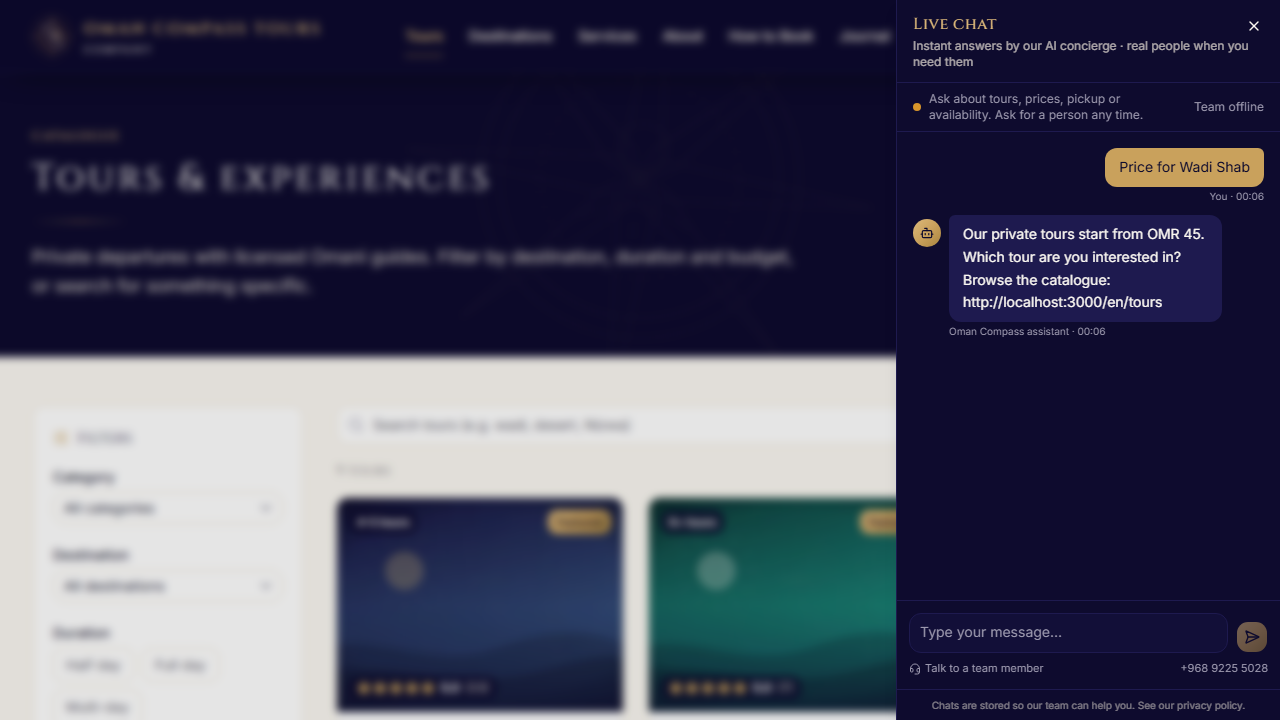
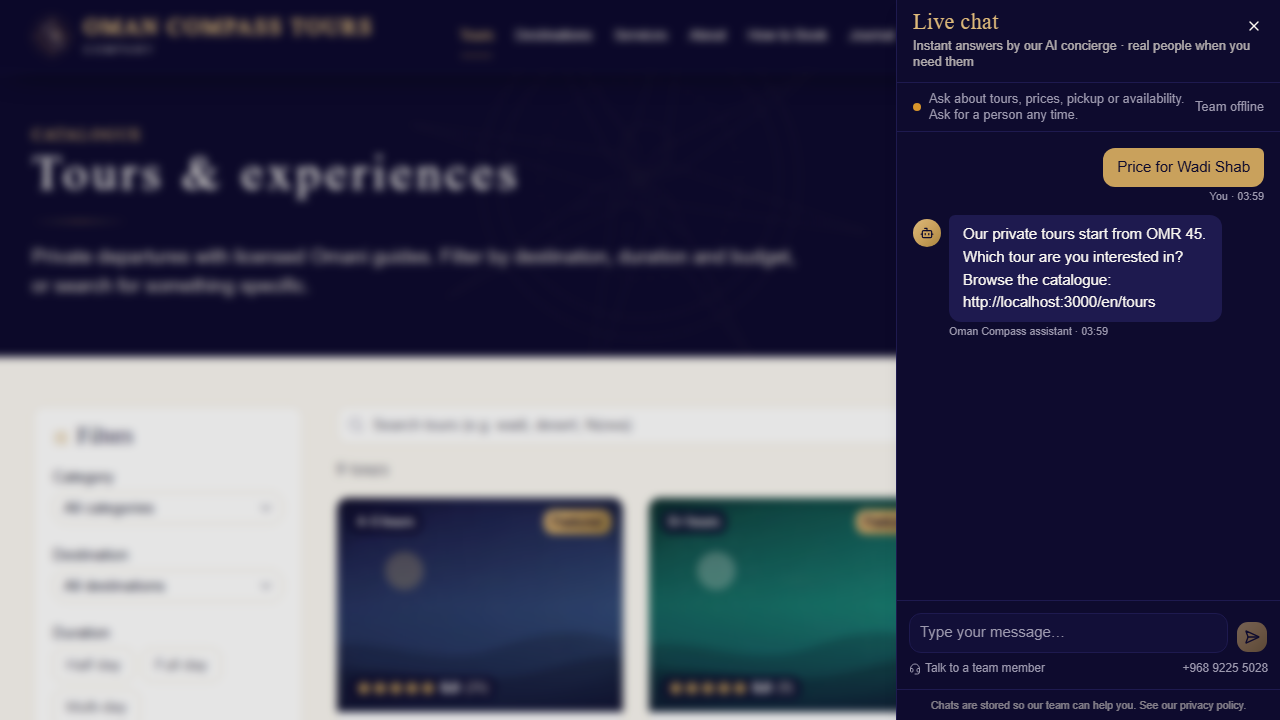
Chat: assistant keeps answering after a soft handoff until staff take over

diff --git a/convex/chatAi.ts b/convex/chatAi.ts
@@ -13,7 +13,7 @@ type KB = {
 
 const omr = (baisa: number) => `OMR ${(baisa / 1000).toFixed(baisa % 1000 === 0 ? 0 : 3)}`;
 
-function buildSystemPrompt(kb: KB, locale: "en" | "ar", siteUrl: string): string {
+function buildSystemPrompt(kb: KB, locale: "en" | "ar", siteUrl: string, handedOff: { name?: string; phone?: string } | null): string {
   const tours = kb.tours
     .map((t) => `- ${t.code} · ${t.title.en} / ${t.title.ar} · ${t.durationLabel.en} · ${t.pricingModel === "per_group" ? `${omr(t.priceGroup ?? t.priceFrom)} per private group (up to ${t.maxGroup})` : `${omr(t.priceAdult ?? t.priceFrom)} per adult${t.priceChild ? `, ${omr(t.priceChild)} per child` : ""}`} · starts ${t.startTimes.join("/")} · free cancellation ${t.freeCancellationHours}h · deposit ${t.depositPercent}% · pickup ${t.pickupIncluded ? "included" : "not included"} · includes: ${t.inclusions.slice(0, 5).join(", ")} · book: ${siteUrl}/${locale}/tours/${t.slug[locale]}`)
     .join("\n");
@@ -22,6 +22,8 @@ function buildSystemPrompt(kb: KB, locale: "en" | "ar", siteUrl: string): string
 Answer in the customer's language (${locale === "ar" ? "Arabic — Modern Standard, warm tourism register" : "English"}), briefly and warmly, like an experienced Omani guide. Use only the catalogue and policies below for prices, durations, inclusions and cancellation rules; convert OMR to USD at 1 OMR ≈ 2.60 USD only when asked. Give direct booking links from the catalogue. Never invent tours, prices, availability or discounts. For live availability on a date, say the booking page shows real-time availability and link it.
 
 Hand off to a human (set "handoff": true) when: the customer asks for a person; they want to change, cancel or refund a booking; they report a problem or complaint; they ask for a custom itinerary or group quote; or you are not confident (confidence below 0.6). Before handing off, ask for their name and phone number if not already given.
+
+${handedOff ? `NOTE: this conversation has already been passed to the human team, who will follow up${handedOff.name ? ` with ${handedOff.name}` : ""}${handedOff.phone ? " on the phone number they gave" : ""}. Keep answering every new question fully and helpfully from the catalogue; do not ask for their name or phone again; you may mention that a colleague will confirm details.` : ""}
 
 Respond ONLY with a JSON object: {"reply": string, "confidence": number between 0 and 1, "handoff": boolean}. No markdown fences.
 
@@ -55,7 +57,8 @@ export const respond = internalAction({
   returns: v.null(),
   handler: async (ctx, { conversationId }) => {
     const data = (await ctx.runQuery(internal.chat.getForAi, { conversationId })) as { conversation: Doc<"conversations">; history: { role: string; body: string }[]; tour: unknown } | null;
-    if (!data || data.conversation.status !== "ai") return null;
+    if (!data || (data.conversation.status !== "ai" && data.conversation.status !== "waiting_human")) return null;
+    const handedOff = data.conversation.status === "waiting_human" ? { name: data.conversation.guestName, phone: data.conversation.guestPhone } : null;
     const kb = (await ctx.runQuery(internal.chat.knowledgeBase, {})) as KB;
     const locale = data.conversation.locale;
     const siteUrl = process.env.SITE_URL ?? "https://omancompasstours.com";
@@ -77,7 +80,7 @@ export const respond = internalAction({
           model: "claude-opus-5",
           max_tokens: 2000,
           output_config: { effort: "low" },
-          system: [{ type: "text", text: buildSystemPrompt(kb, locale, siteUrl), cache_control: { type: "ephemeral" } }],
+          system: [{ type: "text", text: buildSystemPrompt(kb, locale, siteUrl, handedOff), cache_control: { type: "ephemeral" } }],
           messages,
         });
         if (response.stop_reason === "refusal") {

diff --git a/convex/chat.ts b/convex/chat.ts
@@ -80,7 +80,8 @@ export const send = mutation({
     if (nextStatus === "waiting_human" && c.status === "ai") {
       await ctx.db.insert("messages", { conversationId, role: "system", body: c.locale === "ar" ? "تم تحويل المحادثة إلى أحد أعضاء الفريق. سيرد عليك قريبًا." : "Handing you over to a team member. Someone will reply shortly." });
       await ctx.scheduler.runAfter(0, internal.chat.ensureLeadForHandoff, { conversationId });
-    } else if (c.status === "ai") {
+    } else if (c.status === "ai" || c.status === "waiting_human") {
+      // Keep answering until a team member actually takes over (status "human"); nobody should be left waiting.
       await ctx.scheduler.runAfter(0, internal.chatAi.respond, { conversationId });
     }
     return null;

diff --git a/tests/chat.spec.ts b/tests/chat.spec.ts
@@ -39,6 +39,11 @@ test.describe("Live chat & consent", () => {
     await expect(sheet.getByText(/Handing you over to a team member/)).toBeVisible();
     await expect(sheet.getByText(/A team member will join shortly/)).toBeVisible();
 
+    // While waiting for a person, the assistant keeps answering new questions
+    await sheet.getByPlaceholder("Type your message…").fill("How much is the Muscat city tour price for two?");
+    await sheet.getByRole("button", { name: "Send" }).click();
+    await expect(sheet.getByText(/Oman Compass assistant · /).nth(1)).toBeVisible({ timeout: 20_000 });
+
     // The conversation survives a reload for the same anonymous session
     await page.reload();
     await page.getByRole("button", { name: "Contact us" }).click();

diff --git a/src/components/chat/conversation-thread.tsx b/src/components/chat/conversation-thread.tsx
@@ -56,7 +56,7 @@ export function ConversationThread({ conversationId, sessionKey, onStartNew, cla
   }, [messages.length, conversationId, sessionKey, markRead]);
 
   const last = messages[messages.length - 1];
-  const awaitingAi = status === "ai" && last?.role === "customer" && lastSentAt !== null && Date.now() - lastSentAt < 30_000;
+  const awaitingAi = (status === "ai" || status === "waiting_human") && last?.role === "customer" && lastSentAt !== null && Date.now() - lastSentAt < 30_000;
 
   async function submit(text: string) {
     const body = text.trim();
